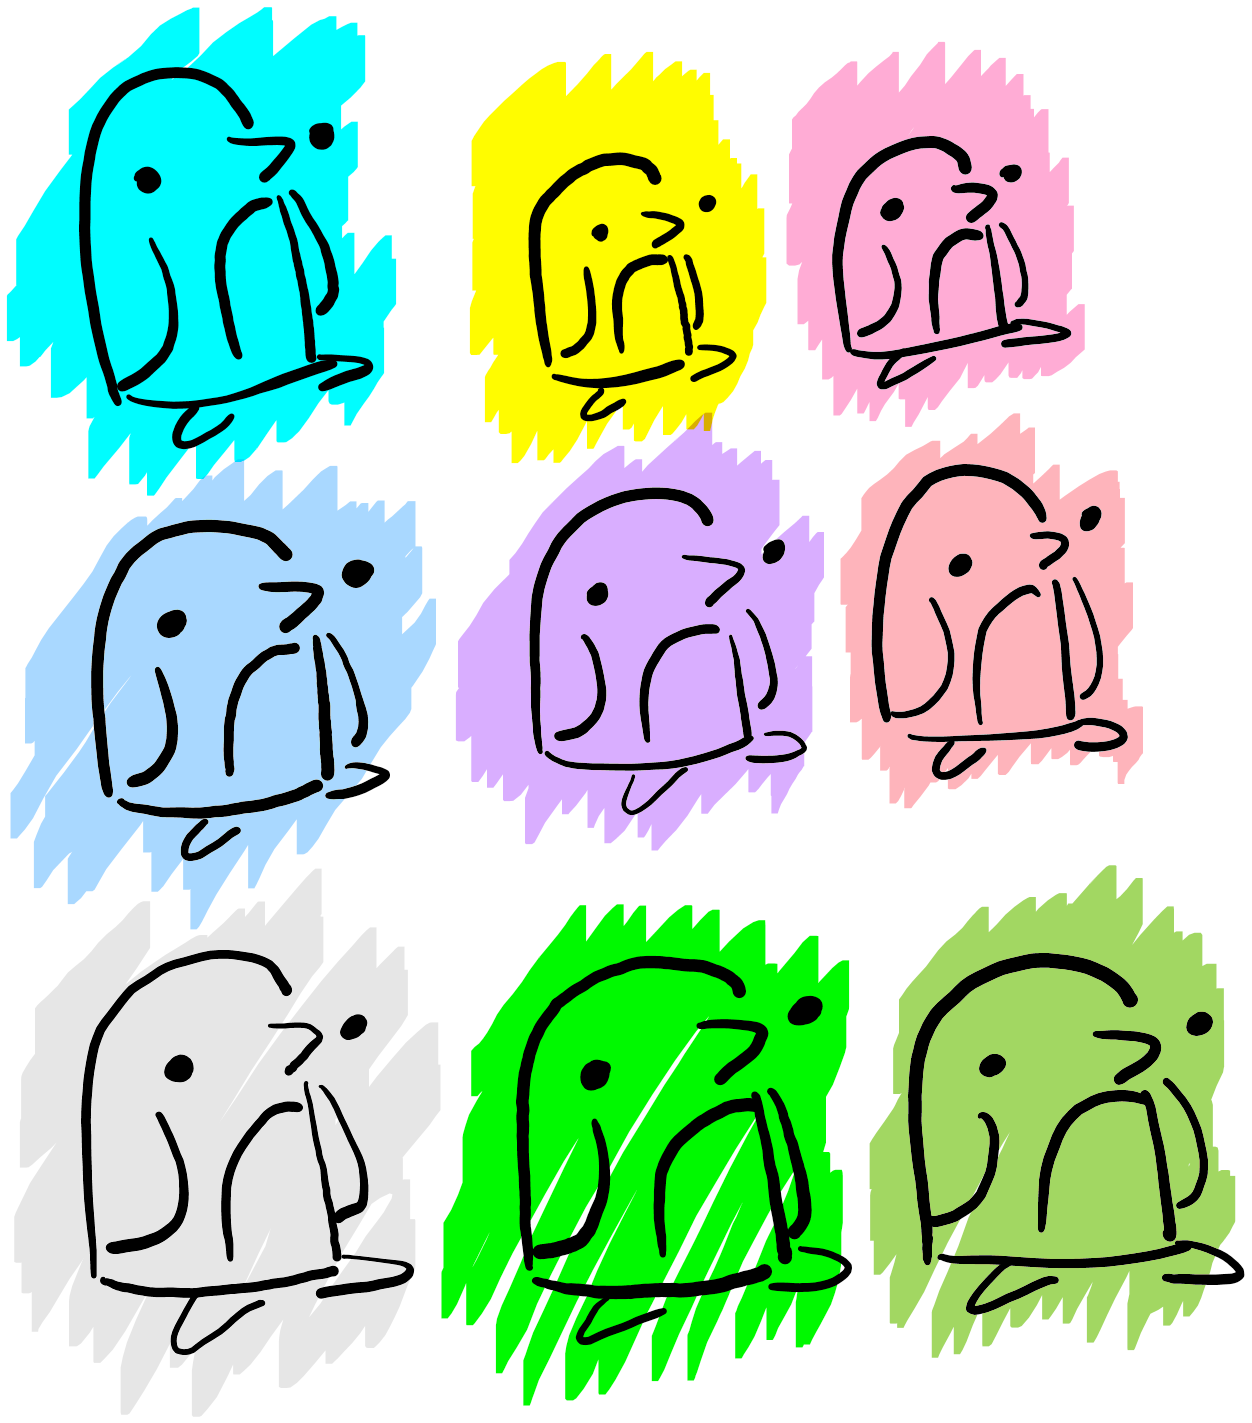
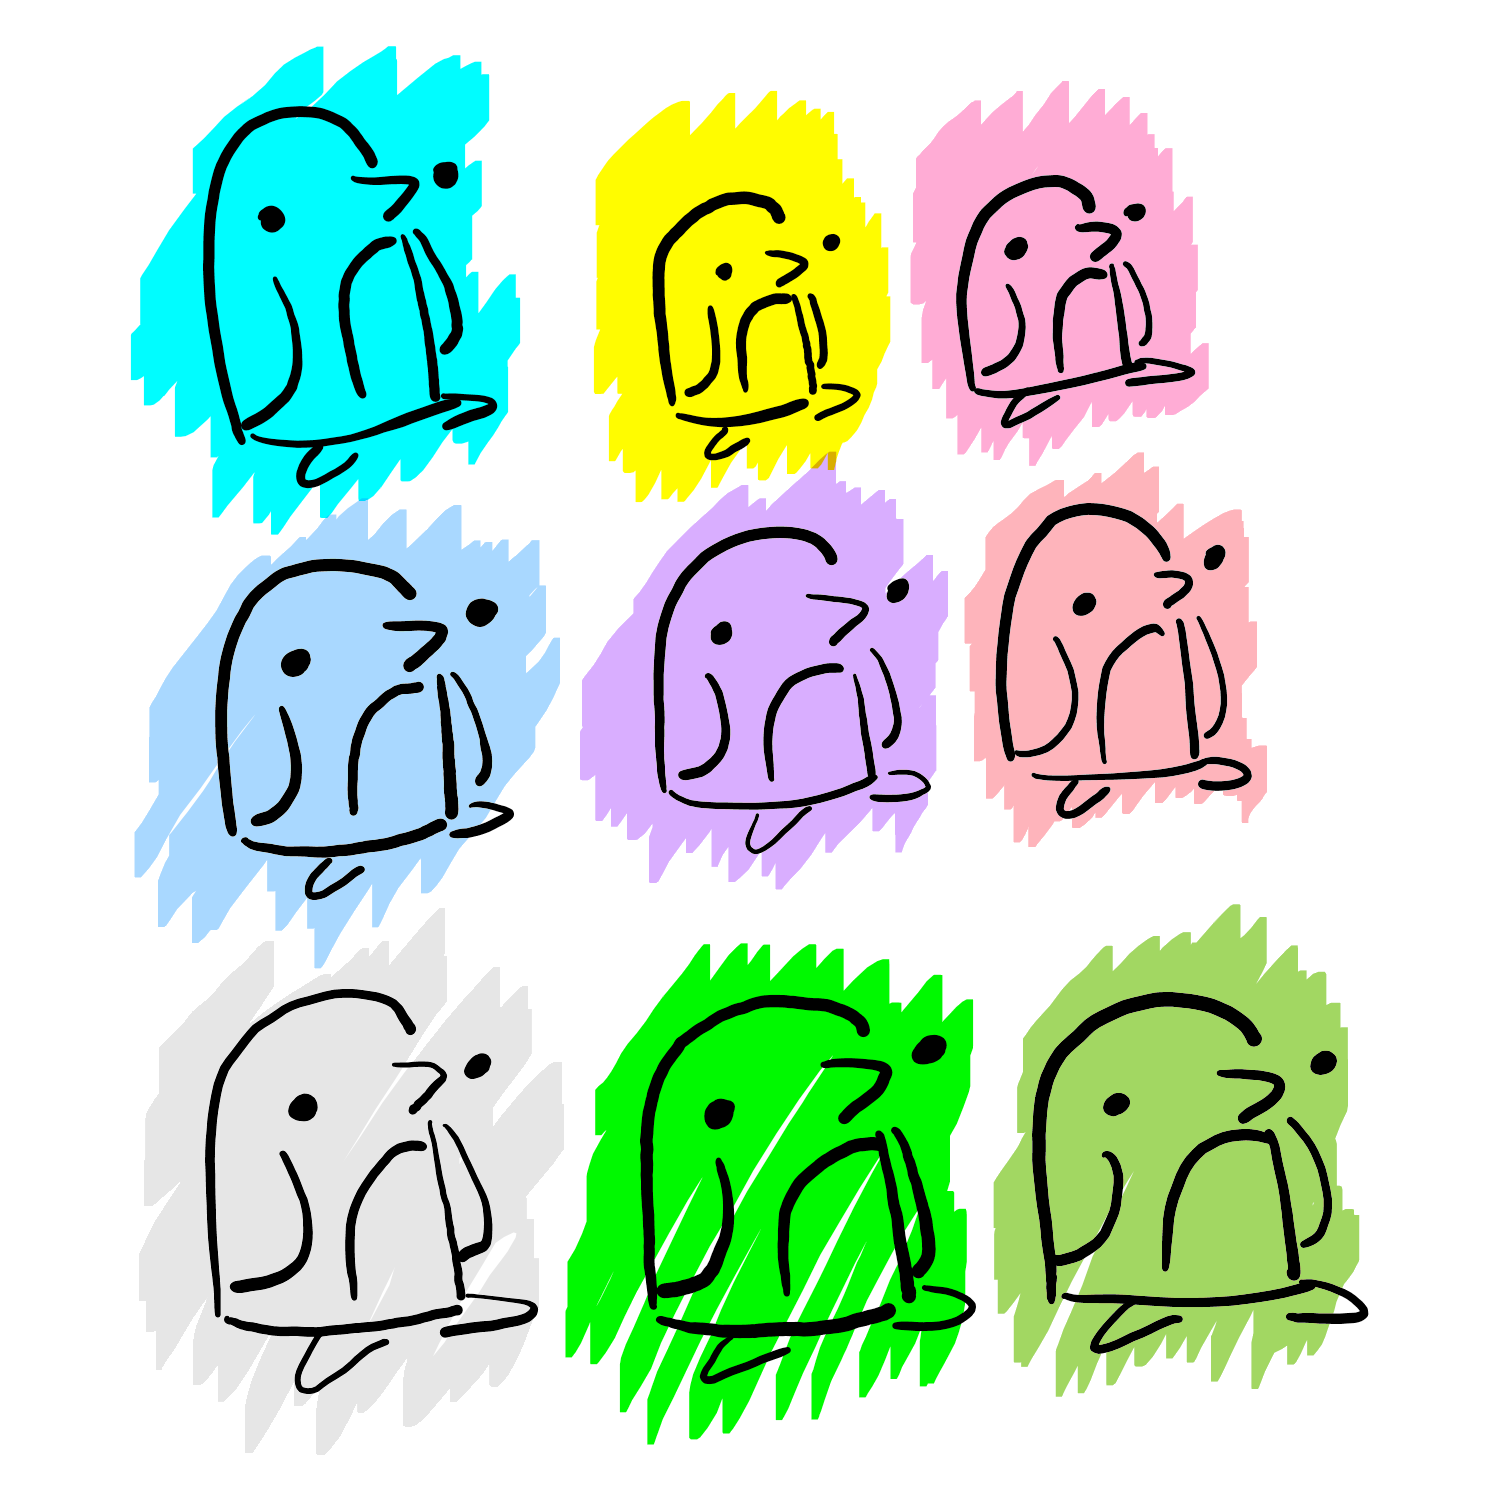
rename HomeScreen.tsx to PlaceholderScreen.tsx (and rename the component the same way), add Placeholder graphics to screen

diff --git a/App.tsx b/App.tsx
@@ -7,7 +7,7 @@ import { Image } from 'react-native';
 // component imports
 import GameScreen from './components/screens/GameScreen';
 import TitleScreen from './components/screens/DebugScreen';
-import HomeScreen from './components/screens/HomeScreen';
+import PlaceholderScreen from './components/screens/PlaceholderScreen';
 
 const Tab = createBottomTabNavigator();
 
@@ -70,9 +70,9 @@ function MyTabs() {
         tabBarInactiveTintColor: 'black',
       })}
     >
-      <Tab.Screen name={ROUTE_NAMES.Home} component={HomeScreen} />
-      <Tab.Screen name={ROUTE_NAMES.Messages} component={HomeScreen} />
-      <Tab.Screen name={ROUTE_NAMES.Insights} component={HomeScreen} />
+      <Tab.Screen name={ROUTE_NAMES.Home} component={PlaceholderScreen} />
+      <Tab.Screen name={ROUTE_NAMES.Messages} component={PlaceholderScreen} />
+      <Tab.Screen name={ROUTE_NAMES.Insights} component={PlaceholderScreen} />
       <Tab.Screen name={ROUTE_NAMES.Game} component={GameScreen} />
       <Tab.Screen name={ROUTE_NAMES.Debug} component={TitleScreen} />
     </Tab.Navigator>

diff --git a/components/screens/PlaceholderScreen.tsx b/components/screens/PlaceholderScreen.tsx
@@ -3,10 +3,12 @@ import { Text, View, Image } from "react-native"
 
 
 
-export default function HomeScreen() {
+export default function PlaceholderScreen() {
     return (
         <View>
             <Text>This is a placeholder screen!</Text>
+            <Image style={{width: 200, height: 200}}source={require("../../assets/placeholder-penguins.png")}/>
+            <Text>Have some Placeholder Penguins.</Text>
         </View>
     );
 }
